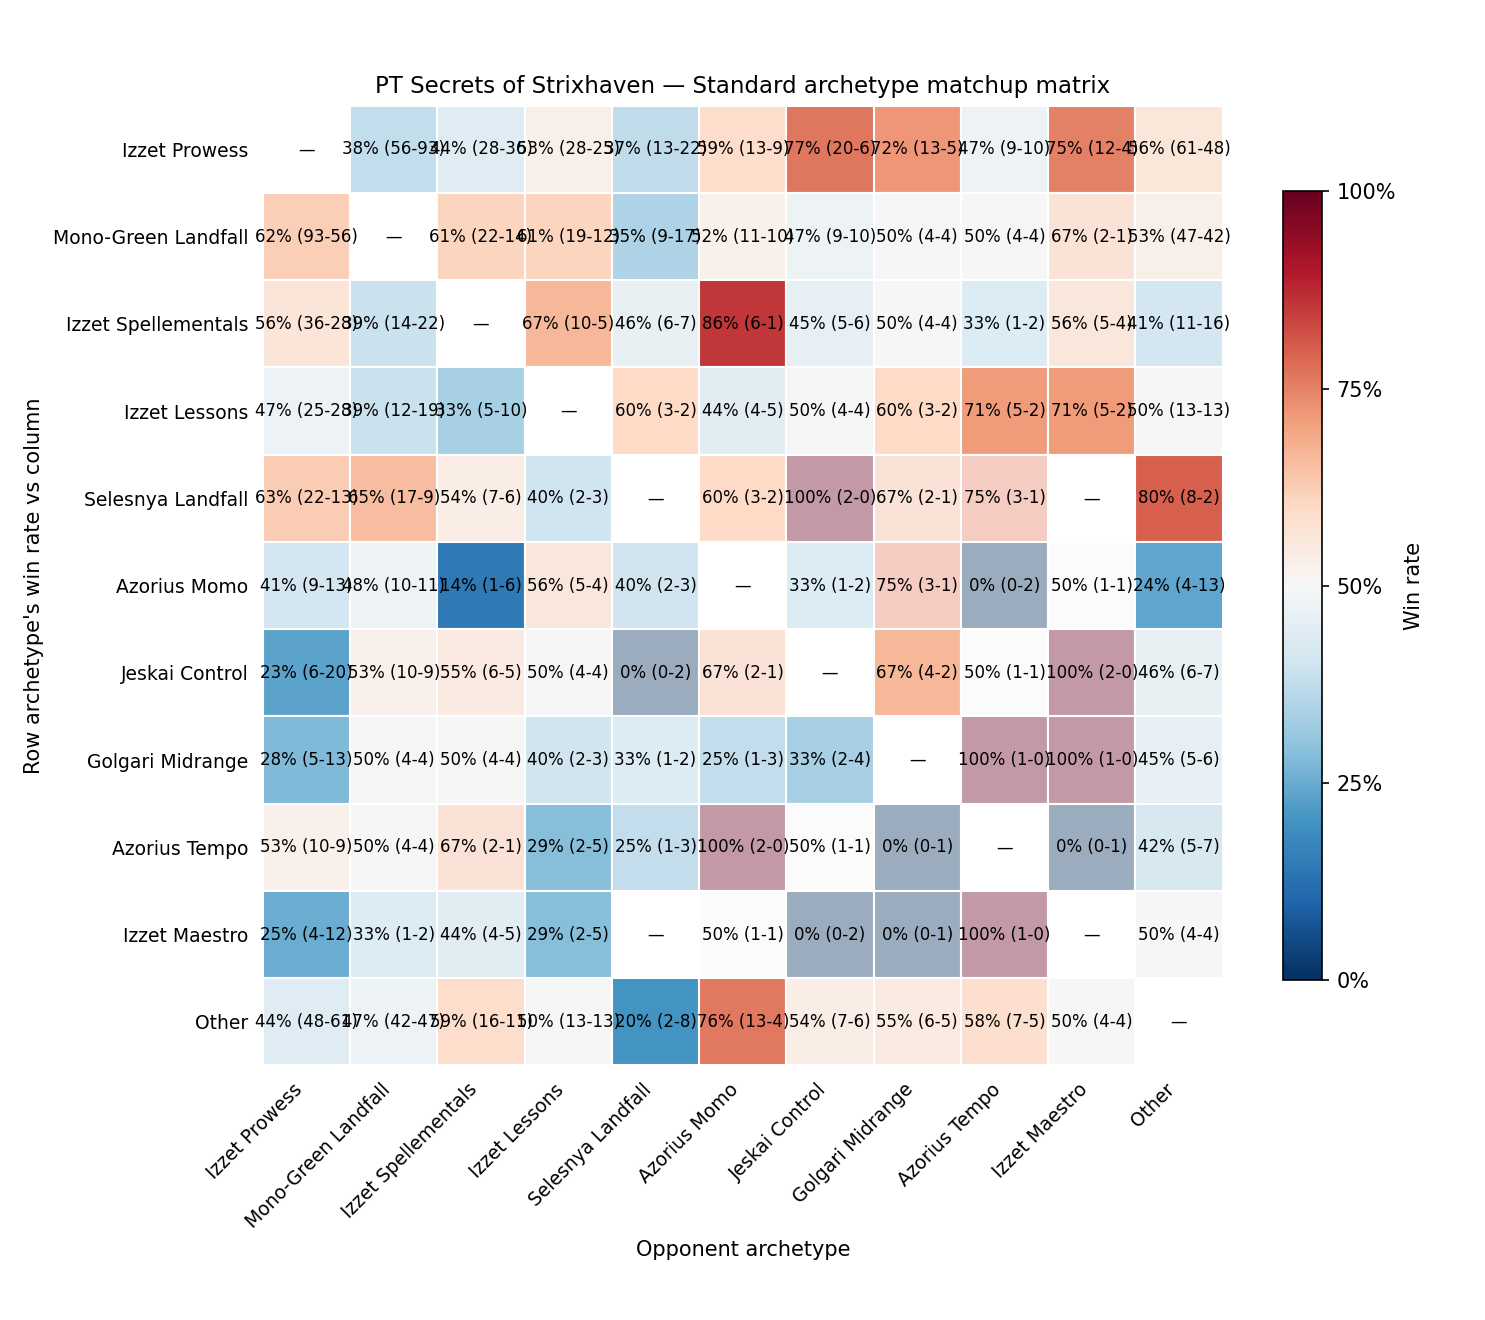
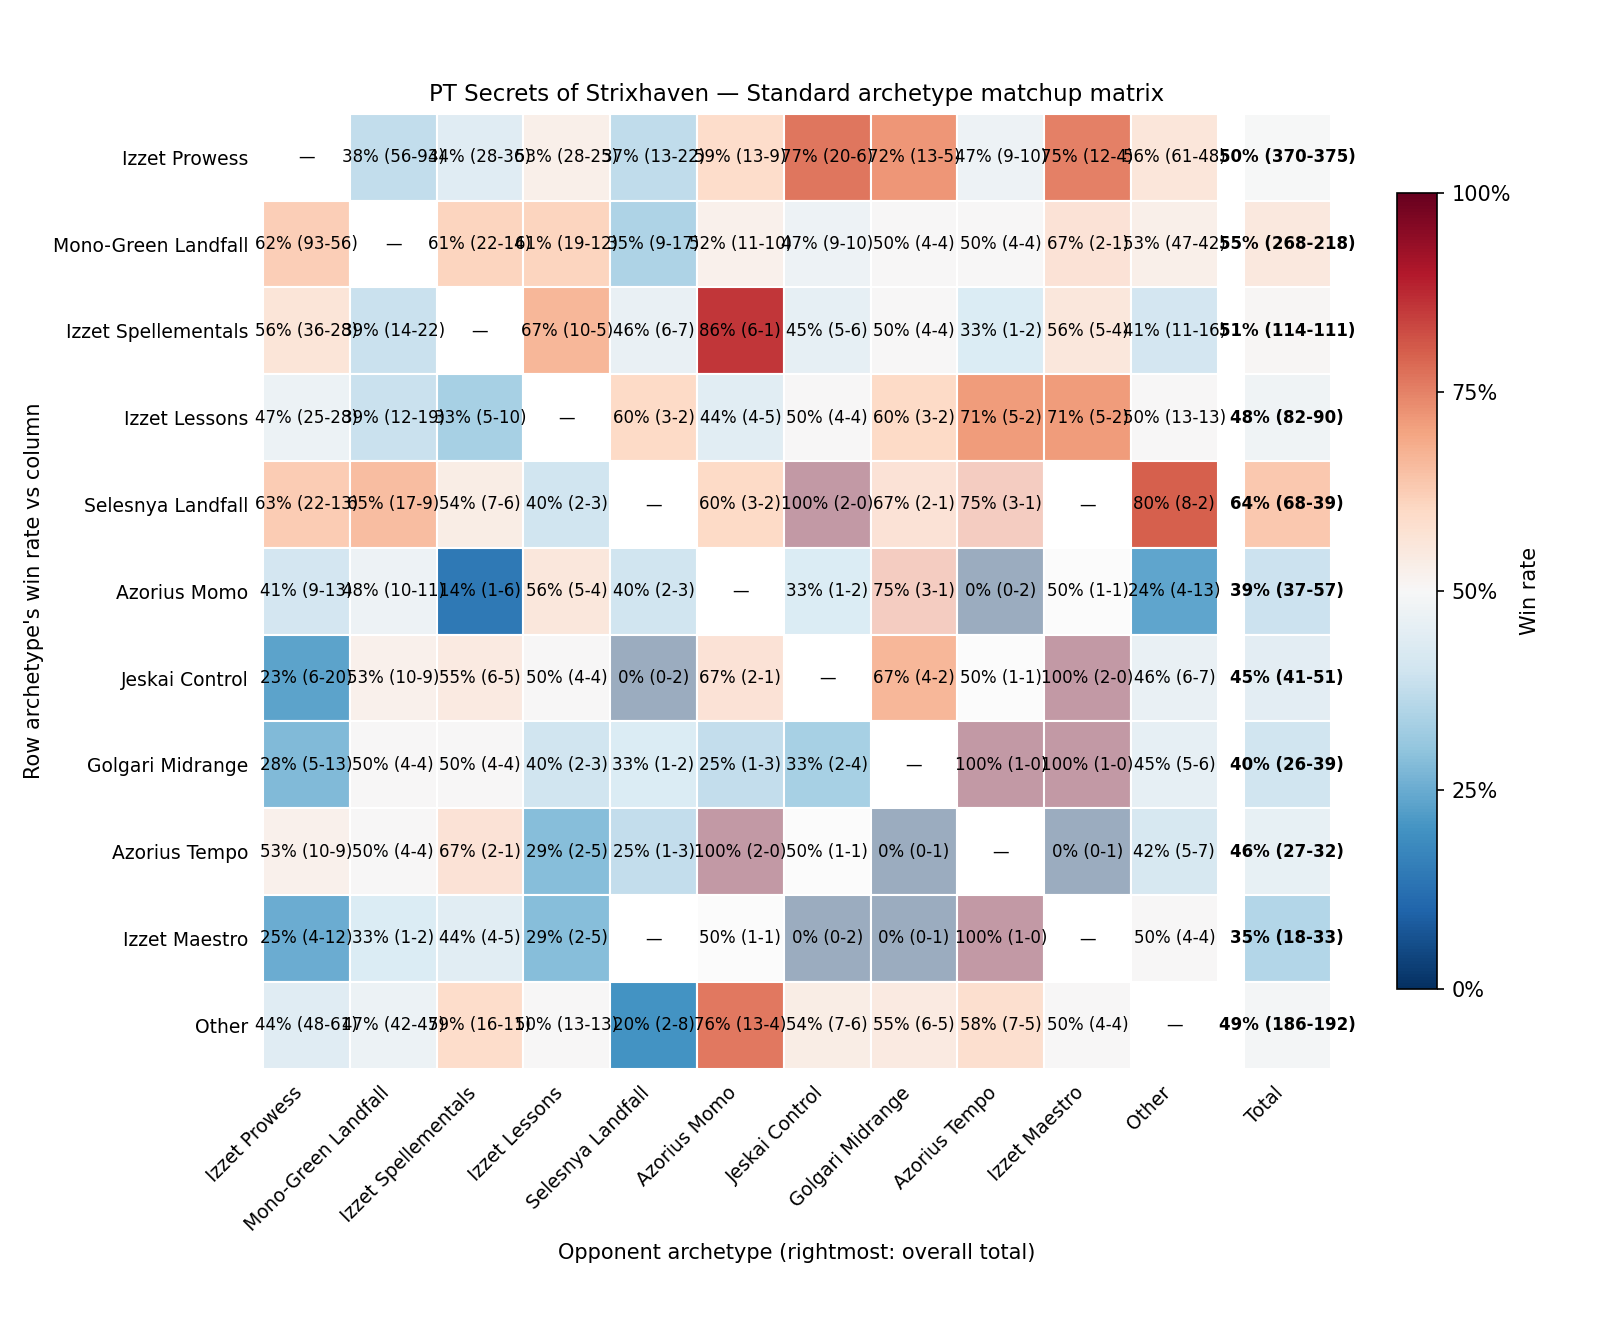
Add per-archetype Total column to matchup matrix
Each archetype now has a rightmost cell summarizing overall record
across all opponents (mirrors included). Format matches the matrix:
"50% (370-375)" in the string CSV, float in the numeric CSV, "W-L"
in the counts CSV, and a colored cell in the PNG visually offset
by a 0.3-unit gap.

Adds compute_overall(wins, losses) helper and 6 unit tests; spec
updated accordingly.

diff --git a/mtg_scrape/build_matchup_matrix.py b/mtg_scrape/build_matchup_matrix.py
@@ -113,9 +113,25 @@ def _assert_symmetric(wins: pd.DataFrame, losses: pd.DataFrame) -> None:
             )
 
 
+def compute_overall(
+    wins: pd.DataFrame, losses: pd.DataFrame
+) -> tuple[pd.Series, pd.Series]:
+    """Sum each archetype's wins and losses across all opponents.
+
+    Mirror matches on the diagonal ARE included: each mirror contributes 1 W
+    and 1 L to the archetype's totals, leaving the per-archetype win rate
+    unchanged but inflating the games-played count to reflect every game
+    that archetype played.
+    """
+    overall_wins = wins.sum(axis=1).astype(int)
+    overall_losses = losses.sum(axis=1).astype(int)
+    return overall_wins, overall_losses
+
+
 from pathlib import Path
 
 EM_DASH = "—"  # U+2014
+TOTAL_LABEL = "Total"
 
 
 def _format_cell_string(wins: int, losses: int, is_diagonal: bool) -> str:
@@ -132,7 +148,11 @@ def _format_counts_string(wins: int, losses: int, is_diagonal: bool) -> str:
 
 
 def render_csvs(wins: pd.DataFrame, losses: pd.DataFrame, out_dir: Path) -> None:
-    """Emit matchup_matrix.csv, matchup_matrix_numeric.csv, and matchup_matrix_counts.csv."""
+    """Emit matchup_matrix.csv, matchup_matrix_numeric.csv, and matchup_matrix_counts.csv.
+
+    Each output gains a rightmost "Total" column carrying per-archetype overall
+    record across all opponents (mirrors included).
+    """
     out_dir = Path(out_dir)
     out_dir.mkdir(parents=True, exist_ok=True)
 
@@ -155,6 +175,19 @@ def render_csvs(wins: pd.DataFrame, losses: pd.DataFrame, out_dir: Path) -> None
     )
     numeric_df = compute_win_rate(wins, losses)
 
+    overall_wins, overall_losses = compute_overall(wins, losses)
+    overall_total = overall_wins + overall_losses
+
+    string_df[TOTAL_LABEL] = [
+        _format_cell_string(int(overall_wins.loc[r]), int(overall_losses.loc[r]), is_diagonal=False)
+        for r in labels
+    ]
+    counts_df[TOTAL_LABEL] = [
+        _format_counts_string(int(overall_wins.loc[r]), int(overall_losses.loc[r]), is_diagonal=False)
+        for r in labels
+    ]
+    numeric_df[TOTAL_LABEL] = overall_wins.astype(float).div(overall_total.where(overall_total > 0))
+
     string_df.to_csv(out_dir / "matchup_matrix.csv")
     numeric_df.to_csv(out_dir / "matchup_matrix_numeric.csv")
     counts_df.to_csv(out_dir / "matchup_matrix_counts.csv")
@@ -167,6 +200,7 @@ import matplotlib.pyplot as plt
 from matplotlib.colors import TwoSlopeNorm
 
 LOW_SAMPLE_THRESHOLD = 5  # cells with fewer total matches are de-emphasized
+TOTAL_COL_GAP = 0.3       # whitespace between matrix proper and the Total column
 
 
 def render_png(
@@ -180,6 +214,8 @@ def render_png(
     Colormap: RdBu_r diverging, centered at 0.5. Cells with
     wins+losses < low_sample_threshold are rendered with reduced alpha.
     Diagonal cells are blanked (no color, em-dash label).
+    A rightmost "Total" column shows each archetype's overall record, offset
+    from the main matrix by a small whitespace gap.
     """
     out_path = Path(out_path)
     out_path.parent.mkdir(parents=True, exist_ok=True)
@@ -187,6 +223,7 @@ def render_png(
     labels = list(wins.index)
     n = len(labels)
     wr = compute_win_rate(wins, losses)  # NaN on diagonal and empty cells
+    overall_wins, overall_losses = compute_overall(wins, losses)
 
     # Build cell label strings and alpha mask
     cell_text = [[""] * n for _ in range(n)]
@@ -205,7 +242,9 @@ def render_png(
                 if total < low_sample_threshold:
                     alpha_mask[i][j] = 0.4
 
-    fig, ax = plt.subplots(figsize=(max(8, 0.9 * n), max(7, 0.8 * n)))
+    total_col_left = n + TOTAL_COL_GAP
+
+    fig, ax = plt.subplots(figsize=(max(8, 0.9 * (n + 1)), max(7, 0.8 * n)))
     norm = TwoSlopeNorm(vmin=0.0, vcenter=0.5, vmax=1.0)
     cmap = plt.get_cmap("RdBu_r")
 
@@ -216,13 +255,28 @@ def render_png(
             ax.add_patch(plt.Rectangle((j, n - 1 - i), 1, 1, facecolor=color, edgecolor="white"))
             ax.text(j + 0.5, n - 1 - i + 0.5, cell_text[i][j], ha="center", va="center", fontsize=8)
 
-    ax.set_xlim(0, n)
+    # Total column (rightmost, offset by TOTAL_COL_GAP)
+    for i, label in enumerate(labels):
+        w = int(overall_wins.loc[label])
+        l = int(overall_losses.loc[label])
+        total = w + l
+        if total == 0:
+            color = (1.0, 1.0, 1.0, 0.0)
+            text = EM_DASH
+        else:
+            wr_val = w / total
+            color = (*cmap(norm(wr_val))[:3], 1.0)
+            text = f"{round(100 * wr_val)}% ({w}-{l})"
+        ax.add_patch(plt.Rectangle((total_col_left, n - 1 - i), 1, 1, facecolor=color, edgecolor="white"))
+        ax.text(total_col_left + 0.5, n - 1 - i + 0.5, text, ha="center", va="center", fontsize=8, weight="bold")
+
+    ax.set_xlim(0, total_col_left + 1)
     ax.set_ylim(0, n)
-    ax.set_xticks([j + 0.5 for j in range(n)])
+    ax.set_xticks([j + 0.5 for j in range(n)] + [total_col_left + 0.5])
     ax.set_yticks([n - 1 - i + 0.5 for i in range(n)])
-    ax.set_xticklabels(labels, rotation=45, ha="right", fontsize=9)
+    ax.set_xticklabels(labels + [TOTAL_LABEL], rotation=45, ha="right", fontsize=9)
     ax.set_yticklabels(labels, fontsize=9)
-    ax.set_xlabel("Opponent archetype", fontsize=10)
+    ax.set_xlabel("Opponent archetype (rightmost: overall total)", fontsize=10)
     ax.set_ylabel("Row archetype's win rate vs column", fontsize=10)
     ax.set_title("PT Secrets of Strixhaven — Standard archetype matchup matrix", fontsize=11)
     ax.set_aspect("equal")

diff --git a/tests/test_build_matchup_matrix.py b/tests/test_build_matchup_matrix.py
@@ -255,3 +255,77 @@ def test_assert_symmetric_raises_on_asymmetric_matrix():
     losses = pd.DataFrame([[0, 1], [3, 0]], index=["A", "B"], columns=["A", "B"])
     with pytest.raises(AssertionError, match="symmetry violated"):
         _assert_symmetric(wins, losses)
+
+
+from mtg_scrape.build_matchup_matrix import compute_overall, TOTAL_LABEL
+
+
+def test_compute_overall_sums_each_row():
+    # A: 0 vs A, 2 vs B, 1 vs C wins -> total 3 wins; losses 0+1+2 -> 3 losses
+    wins = pd.DataFrame([[0, 2, 1], [1, 0, 0], [2, 0, 0]], index=["A", "B", "C"], columns=["A", "B", "C"])
+    losses = pd.DataFrame([[0, 1, 2], [2, 0, 0], [1, 0, 0]], index=["A", "B", "C"], columns=["A", "B", "C"])
+    overall_wins, overall_losses = compute_overall(wins, losses)
+    assert overall_wins.loc["A"] == 3
+    assert overall_losses.loc["A"] == 3
+
+
+def test_compute_overall_includes_mirror_diagonal():
+    """A mirror match contributes 1 W and 1 L on the diagonal; those count toward the overall."""
+    m = _matchups([
+        ("IzzetProwess", "IzzetProwess", "W"),  # mirror; contributes 1W + 1L to diag
+        ("IzzetProwess", "Mono-Green", "W"),    # non-mirror
+    ])
+    long = to_long_frame(m, top_n=["IzzetProwess", "Mono-Green"])
+    wins, losses = compute_matrix(long, ordered_labels=["IzzetProwess", "Mono-Green"])
+    overall_wins, overall_losses = compute_overall(wins, losses)
+    # Izzet plays 3 game outcomes: 1 W (vs MGL) + 1 W + 1 L (mirror) = 2 W and 1 L total
+    assert overall_wins.loc["IzzetProwess"] == 2
+    assert overall_losses.loc["IzzetProwess"] == 1
+
+
+def test_string_csv_has_total_column(tmp_path: Path):
+    # A goes 2-1 vs B; A's overall is 2W-1L = 67%
+    wins = pd.DataFrame([[0, 2], [1, 0]], index=["A", "B"], columns=["A", "B"])
+    losses = pd.DataFrame([[0, 1], [2, 0]], index=["A", "B"], columns=["A", "B"])
+
+    render_csvs(wins, losses, out_dir=tmp_path)
+
+    df = pd.read_csv(tmp_path / "matchup_matrix.csv", index_col=0)
+    assert TOTAL_LABEL in df.columns
+    assert df.loc["A", TOTAL_LABEL] == "67% (2-1)"
+    assert df.loc["B", TOTAL_LABEL] == "33% (1-2)"
+
+
+def test_numeric_csv_has_total_column(tmp_path: Path):
+    wins = pd.DataFrame([[0, 2], [1, 0]], index=["A", "B"], columns=["A", "B"])
+    losses = pd.DataFrame([[0, 1], [2, 0]], index=["A", "B"], columns=["A", "B"])
+
+    render_csvs(wins, losses, out_dir=tmp_path)
+
+    df = pd.read_csv(tmp_path / "matchup_matrix_numeric.csv", index_col=0)
+    assert df.loc["A", TOTAL_LABEL] == pytest.approx(2 / 3)
+    assert df.loc["B", TOTAL_LABEL] == pytest.approx(1 / 3)
+
+
+def test_counts_csv_has_total_column(tmp_path: Path):
+    wins = pd.DataFrame([[0, 2], [1, 0]], index=["A", "B"], columns=["A", "B"])
+    losses = pd.DataFrame([[0, 1], [2, 0]], index=["A", "B"], columns=["A", "B"])
+
+    render_csvs(wins, losses, out_dir=tmp_path)
+
+    df = pd.read_csv(tmp_path / "matchup_matrix_counts.csv", index_col=0)
+    assert df.loc["A", TOTAL_LABEL] == "2-1"
+    assert df.loc["B", TOTAL_LABEL] == "1-2"
+
+
+def test_total_column_includes_mirror_matches_in_count(tmp_path: Path):
+    """Mirror matches inflate the total games but keep win rate unchanged for that side."""
+    # A vs A: 1 W (so A also has 1 L on diag). Plus A 2-0 vs B.
+    wins = pd.DataFrame([[1, 2], [0, 0]], index=["A", "B"], columns=["A", "B"])
+    losses = pd.DataFrame([[1, 0], [2, 0]], index=["A", "B"], columns=["A", "B"])
+
+    render_csvs(wins, losses, out_dir=tmp_path)
+
+    df = pd.read_csv(tmp_path / "matchup_matrix_counts.csv", index_col=0)
+    # A's overall: 1 mirror W + 2 vs B = 3 W; 1 mirror L + 0 vs B = 1 L  → 3-1
+    assert df.loc["A", TOTAL_LABEL] == "3-1"

diff --git a/docs/superpowers/specs/2026-05-21-matchup-matrix-design.md b/docs/superpowers/specs/2026-05-21-matchup-matrix-design.md
@@ -39,6 +39,8 @@ All under `data/`:
 
 Rows and columns are labeled by archetype. "Other" is the 11th label, aggregating the 22 sub-top-10 archetypes.
 
+Each output also carries a rightmost **"Total"** column showing each archetype's overall record across all opponents (including mirror matches). Same cell format as the matrix proper (`"52% (374-345)"` in the string CSV; float win rate in the numeric CSV; `"374-345"` in the counts CSV; colored cell with annotation in the PNG, visually offset from the main matrix by a small gap). Useful for cross-checking row totals against published reference tallies.
+
 ## Algorithm
 
 ```
